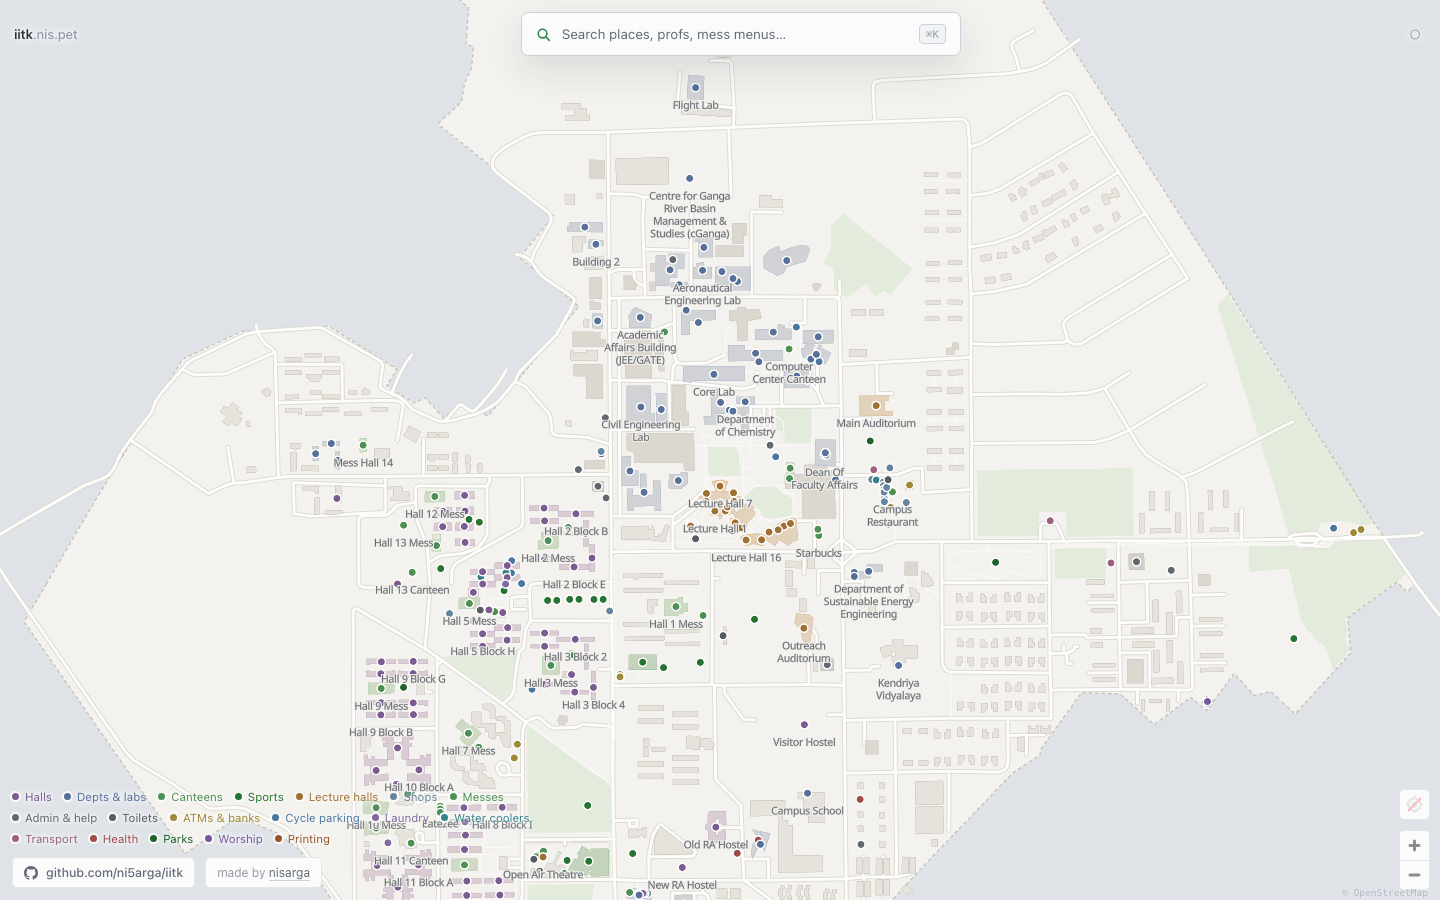
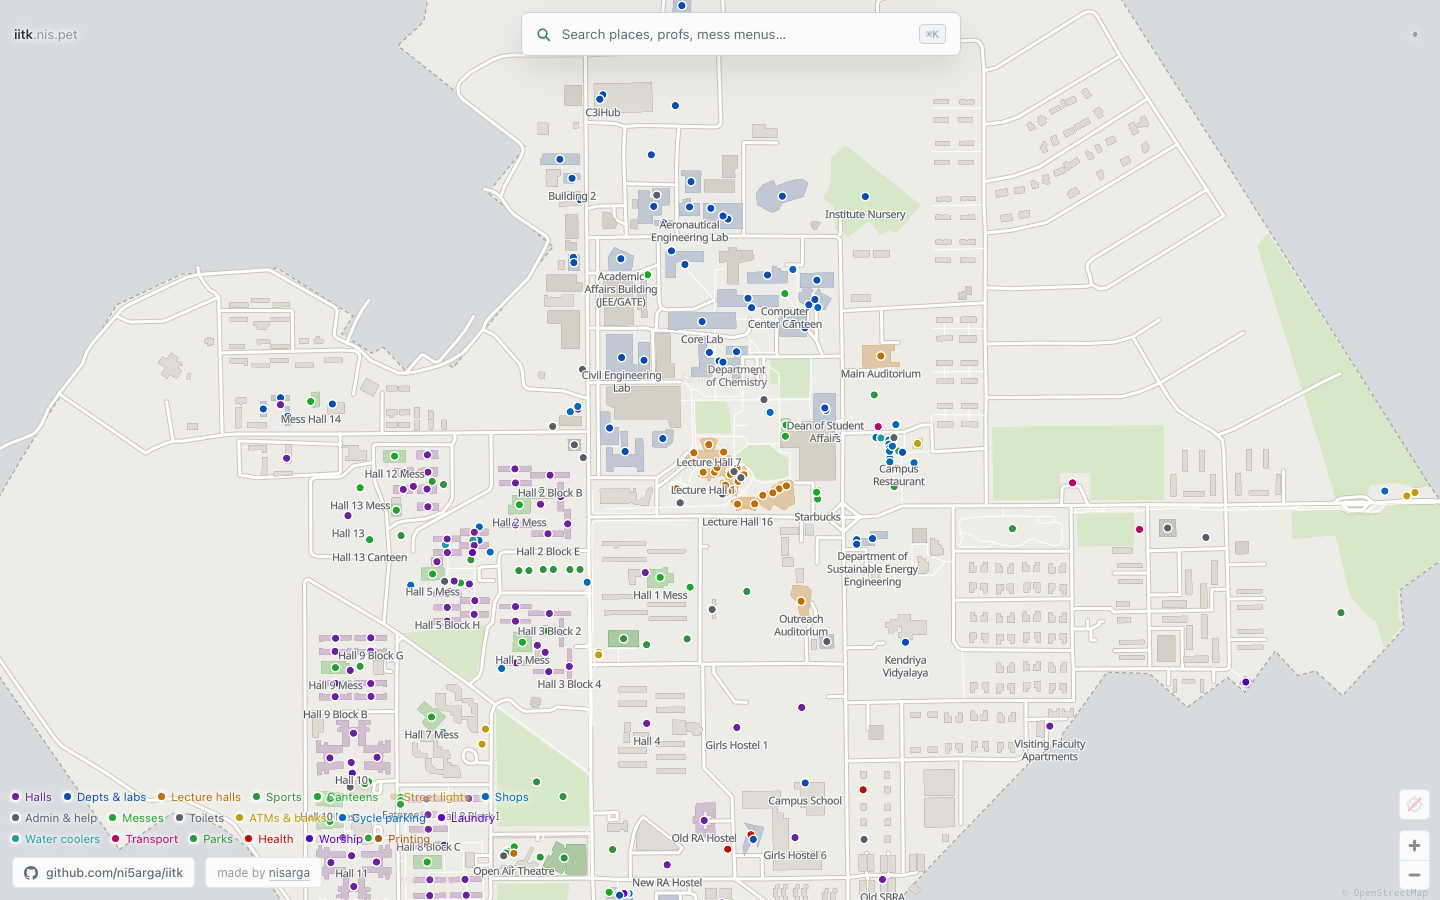
fix(map): rebuild the light theme around a readable lightness ladder

diff --git a/src/main.ts b/src/main.ts
@@ -37,19 +37,41 @@ async function start() {
     if (rows.length) menusAt.set(hall.at, rows)
   }
 
-  // The category palette is tuned for a dark ground; several hues wash out on
-  // white. Darken them for the light theme rather than keeping two hand-written
-  // palettes in sync.
+  // The category palette is tuned for a dark ground and washes out on a pale
+  // one. Darken in HSL, holding hue and saturation and moving only lightness —
+  // scaling the RGB channels instead (the previous approach) drains the colour
+  // and turns every marker into the same sludge brown.
   const shadeCache = new Map<string, string>()
   function catColour(cat: string): string {
     const base = campus.categories[cat]?.color ?? '#8b949e'
     if (resolved() === 'dark') return base
     const hit = shadeCache.get(base)
     if (hit) return hit
+
     const n = parseInt(base.slice(1), 16)
-    const mix = (c: number) => Math.round(c * 0.62)
-    const out = '#' + [(n >> 16) & 255, (n >> 8) & 255, n & 255]
-      .map((c) => mix(c).toString(16).padStart(2, '0')).join('')
+    const r = ((n >> 16) & 255) / 255, g = ((n >> 8) & 255) / 255, bl = (n & 255) / 255
+    const max = Math.max(r, g, bl), min = Math.min(r, g, bl)
+    const l = (max + min) / 2
+    const d = max - min
+    let h = 0
+    const sat = d === 0 ? 0 : d / (1 - Math.abs(2 * l - 1))
+    if (d !== 0) {
+      h = max === r ? ((g - bl) / d) % 6 : max === g ? (bl - r) / d + 2 : (r - g) / d + 4
+      h *= 60
+      if (h < 0) h += 360
+    }
+    // Target ~38% lightness: dark enough to read on near-white, light enough
+    // to stay recognisably the same hue as the dark theme.
+    const L = Math.min(l, 0.38)
+    const S = Math.min(1, sat * 1.05)
+    const c = (1 - Math.abs(2 * L - 1)) * S
+    const x = c * (1 - Math.abs(((h / 60) % 2) - 1))
+    const m = L - c / 2
+    const seg: [number, number, number] =
+      h < 60 ? [c, x, 0] : h < 120 ? [x, c, 0] : h < 180 ? [0, c, x]
+      : h < 240 ? [0, x, c] : h < 300 ? [x, 0, c] : [c, 0, x]
+    const out = '#' + seg
+      .map((v) => Math.round((v + m) * 255).toString(16).padStart(2, '0')).join('')
     shadeCache.set(base, out)
     return out
   }

diff --git a/src/map/style.ts b/src/map/style.ts
@@ -37,27 +37,32 @@ const PALETTE = {
   // half-step darker, and roads the only near-white — so the built area reads
   // without any large field of pure white to stare into.
   light: {
-    bg: '#dfe3e8',
-    campus: '#f4f2ee',
-    green: '#e2ebdc',
-    water: '#cfe0ec',
-    building: '#e6e3dd',
-    buildingEdge: '#d3cfc7',
-    named: '#ddd8cf',
-    road: '#fdfdfc',
-    roadCase: '#dcd8d1',
-    path: '#fbfaf8',
-    steps: '#b6b1a8',
-    wall: '#e0dcd4',
-    boundary: '#c2beb6',
-    label: '#4a5058',
-    labelHalo: '#f4f2ee',
-    dotStroke: '#fdfdfc',
-    routeHalo: '#fdfdfc',
-    route: '#2b6cb8',
-    focus: '#2a8a4d',
-    glow: '#e0a11f',
-    glowCore: '#8a6410',
+    // Built as a lightness ladder so the map reads as figure and ground:
+    // roads are the lightest thing, campus ground sits a step below, buildings
+    // a clear step below that, and everything outside the wall darker still.
+    // The previous palette put all three within ~5% of each other and the
+    // whole map dissolved into one pale wash.
+    bg: '#d7dade',        // outside the wall
+    campus: '#eeece7',    // campus ground
+    green: '#d7e8c9',
+    water: '#b7d5ea',
+    building: '#dedbd3',  // clearly darker than the ground
+    buildingEdge: '#c4bfb3',
+    named: '#d5d0c5',
+    road: '#ffffff',      // the lightest thing on the map
+    roadCase: '#c8c3b7',
+    path: '#ffffff',
+    steps: '#a9a294',
+    wall: '#cdc8bd',
+    boundary: '#a8a294',
+    label: '#2f343b',     // near-black: the old grey vanished on pale ground
+    labelHalo: '#ffffff',
+    dotStroke: '#ffffff',
+    routeHalo: '#ffffff',
+    route: '#1a5fb4',
+    focus: '#1d7a41',
+    glow: '#d9930d',
+    glowCore: '#7a5608',
   },
 } as const
 
@@ -168,7 +173,7 @@ export function buildStyle(
       {
         id: 'building-cat', type: 'fill', source: 'buildings',
         filter: ['all', ['!=', ['get', 'cat'], ''], ['in', ['get', 'cat'], ['literal', []]]],
-        paint: { 'fill-color': catColour(campus), 'fill-opacity': 0.16 },
+        paint: { 'fill-color': catColour(campus), 'fill-opacity': theme === 'dark' ? 0.16 : 0.28 },
       },
 
       {

diff --git a/src/styles.css b/src/styles.css
@@ -117,7 +117,7 @@ kbd {
   font-weight: 600;
   letter-spacing: -.015em;
   color: var(--fg);
-  text-shadow: 0 0 4px var(--halo), 0 0 10px var(--halo);
+  text-shadow: 0 0 3px var(--halo), 0 0 7px var(--halo), 0 0 12px var(--halo);
 }
 #brand-btn span { color: var(--fg-3); font-weight: 500; }
 #brand-btn:hover span { color: var(--accent); }
@@ -254,14 +254,16 @@ kbd {
   color: var(--fg-3);
   white-space: nowrap;
   user-select: none;
-  text-shadow: 0 0 4px var(--halo), 0 0 8px var(--halo);
+  /* Three stacked halos, not one. These sit directly on the map and a single
+     soft shadow leaves map labels bleeding through the text. */
+  text-shadow: 0 0 3px var(--halo), 0 0 6px var(--halo), 0 0 11px var(--halo);
 }
 .chip .dot {
   width: 7px; height: 7px;
   border-radius: 50%;
   background: currentColor;
   opacity: .3;
-  box-shadow: 0 0 0 2px var(--halo);
+  box-shadow: 0 0 0 2px var(--halo), 0 0 4px 2px var(--halo);
 }
 .chip[aria-pressed="true"] { color: var(--fg); }
 .chip[aria-pressed="true"] .dot { opacity: 1; }
